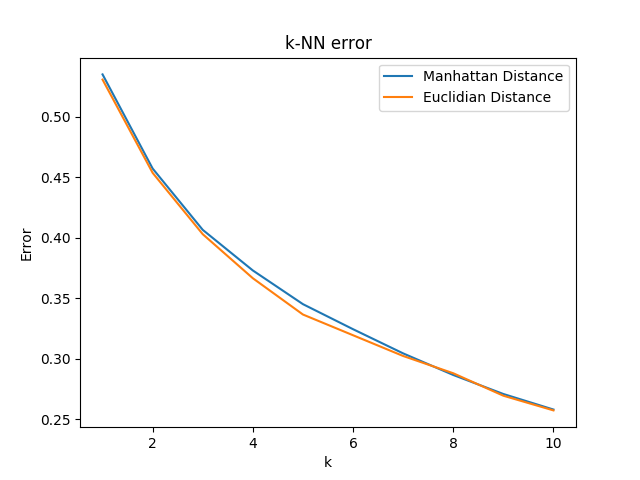
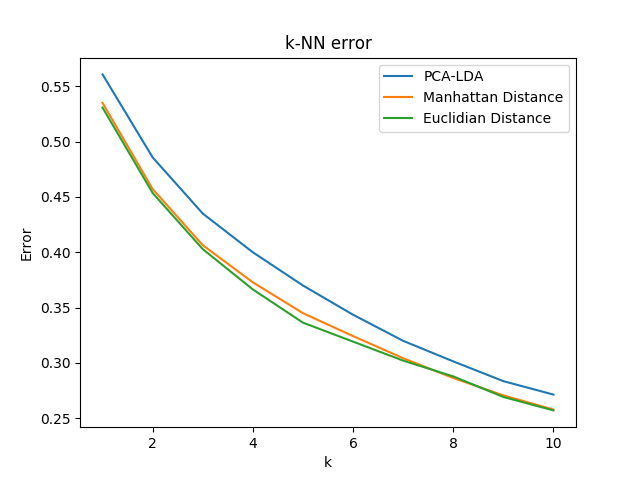
[CW2] Added PCA-LDA with cosine, weighted distance

diff --git a/Coursework 2/lda.py b/Coursework 2/lda.py
@@ -1,0 +1,226 @@
+import numpy as np
+import matplotlib.pyplot as plt
+from tqdm import tqdm
+from numpy.linalg import matrix_power
+import copy
+import os
+
+def sort_eigenvalues_eigenvectors(eigenvalues, eigenvectors):
+    p = np.argsort(np.abs(eigenvalues))[::-1]
+    eigenvalues_ = copy.deepcopy(eigenvalues[p])
+    eigenvectors_ = copy.deepcopy(np.real(eigenvectors[:,p]))
+    return eigenvalues_, eigenvectors_
+
+class LDA:
+    def __init__(self):
+
+        # Dataset
+        # - Stores the raw dataset
+        # - note, don't remove mean or anything from this data
+        self.dataset = {
+            'train_x': [],
+            'train_y': []
+        }
+
+        # Training Data class seperation
+        # { 'class 1' : [ images of class 1 ], etc ... }
+        self.train_class_data = {}
+        # Stores mean of each class
+        # { 'class 1' : class 1 mean, 'class 2': class 2 mean, etc ... }
+        self.train_class_mean = {}
+
+        # Total mean
+        # - mean of training set
+        self.total_mean = []
+
+        # Projection Matrices
+        self.w_pca = [] # pca vector
+        self.w_lda = [] # lda vector
+        self.w_opt = [] # optimal vector which combines both
+
+        # Model HyperParameters
+        # NOTE: M_lda < M_pca and M_pca < N
+        self.M_pca = 0
+        self.M_lda = 0
+
+
+    # splits dataset between classes and gets mean
+    def run_setup(self):
+        self.split_classes()
+        self.get_mean()
+
+    # gets both class mean and total mean
+    def get_mean(self):
+        # get Total Mean
+        self.total_mean = copy.deepcopy(self.dataset['train_x']).mean(axis=1).reshape(-1,1)
+
+        # get within-class mean
+        for label in self.train_class_data:
+            self.train_class_mean[label] = copy.deepcopy(self.train_class_data[label]).mean(axis=1).reshape(-1,1)
+
+    # seperates classes
+    def split_classes(self):
+        # Get all class labels
+        labels = np.unique(self.dataset['train_y'])
+
+        # Seperate Classes
+        for label in labels:
+            # Get indices for those labels
+            indices = []
+            for i in range(self.dataset['train_y'].shape[0]):
+                indices.append(i) if (self.dataset['train_y'][i] == label) else 0
+
+            # Select class from those indices
+            #print(indices)
+            self.train_class_data[label] = copy.deepcopy(self.dataset['train_x'][:,indices])
+
+    # simple function to get size of each class in training set
+    def get_class_sizes(self):
+        class_sizes = {}
+
+        for label in self.train_class_data:
+            class_sizes[label] = self.train_class_data[label].shape[1]
+
+        return class_sizes
+
+    # helper function to compute efficient co-varaince eigenvalue decomposition
+    def compute_covariance_decomposition(self, matrix):
+        A = copy.deepcopy(matrix)
+        cov = (1/matrix.shape[0]) * np.dot(A.T, A)
+        #print('Before PCA projection ... \n')
+        #print('class covariance rank = ',np.linalg.matrix_rank(cov))
+        # Compute Eigenvalues and Eigenvectors
+        eigenvalues, eigenvectors = np.linalg.eig(cov)
+        # Transform Eigenvectors to the Face plane
+        eigenvectors = copy.deepcopy(np.dot(A,eigenvectors))
+        # Normalise Eigenvectors
+        eigenvectors = eigenvectors / np.linalg.norm(eigenvectors,axis=0)
+        # return eigenvectors and eigenvalues
+        return sort_eigenvalues_eigenvectors( eigenvalues, eigenvectors )
+
+    # helper function to get eigenvalue decomposition of matrix
+    def eigenvalue_decomposition(self, matrix):
+        A = copy.deepcopy(matrix)
+        # Compute Eigenvalues and Eigenvectors
+        eigenvalues, eigenvectors = np.linalg.eig(A)
+        # return eigenvectors and eigenvalues
+        return sort_eigenvalues_eigenvectors( eigenvalues, eigenvectors )
+
+    # helper function to compute co-variance
+    def compute_covariance(self,matrix):
+        A = copy.deepcopy(matrix)
+        return np.dot(A,A.T)
+
+
+    def project_matrix(self,matrix,vec):
+        return np.dot(
+            copy.deepcopy(vec).T,
+            np.dot(
+                copy.deepcopy(matrix),
+                copy.deepcopy(vec)))
+
+    # IMPORTANT : function to do PCA-LDA transformation
+    def transform(self,X):
+        return copy.deepcopy(np.matmul(
+                copy.deepcopy(X.T),
+                copy.deepcopy(self.w_opt)
+            ))
+
+    # IMPORTANT : Equivalent of 'fit' function
+    def run_pca_lda(self,m_pca_type=0,m_lda_type=0): # 0 - single value, 1 - list
+        if os.path.exists(os.path.join("w.npy")):
+            self.w_opt = np.load("w.npy")
+            return
+
+        N = self.dataset['train_x'].shape[1]
+        self.M_pca = int(0.5*N)
+        self.M_lda = int(0.25*N)
+
+        if m_pca_type == 0:
+            assert(self.M_pca < self.dataset['train_x'].shape[1]), 'M PCA must be less than N'
+        if m_lda_type == 0:
+            assert(self.M_lda <= self.M_pca), ' M LDA can\'t be greater than M PCA'
+
+        # PCA
+        # get eigenvalue decomposition of total covariance matrix (X - Xbar)
+        print("Computing PCA eigenvectors...")
+
+        _, pca_eigenvectors = self.compute_covariance_decomposition(copy.deepcopy(self.dataset['train_x']) - self.total_mean)
+
+        # set M eigenvectors to be w_pca
+        if m_pca_type == 0:
+            self.w_pca = copy.deepcopy(pca_eigenvectors[:,:min(self.M_pca,pca_eigenvectors.shape[1])])
+        if m_pca_type == 1:
+            self.w_pca = copy.deepcopy(pca_eigenvectors[:,self.M_pca])
+
+        # Calculate covariance matrices
+        class_covariance = []
+        class_mean_covariance = []
+
+        print("Computing LDA SW...")
+
+        # Within Class variance
+        for key in tqdm(self.train_class_data):
+            class_covariance.append( self.compute_covariance( copy.deepcopy(self.train_class_data[key]) - self.train_class_mean[key]) )
+        class_covariance = np.array(sum(class_covariance))
+        class_covariance = 0.5*(class_covariance + class_covariance.T)
+        print(np.linalg.det(class_covariance))
+        print("calculating det...")
+
+        # Between class seperation
+        print("Computing LDA SB...")
+
+        for key in tqdm(self.train_class_mean):
+            class_mean_covariance.append(self.compute_covariance(copy.deepcopy(self.total_mean).reshape(-1,1) - self.train_class_mean[key].reshape(-1,1)) * self.train_class_data[key].shape[1] )
+        class_mean_covariance = np.array(sum(class_mean_covariance))
+        class_mean_covariance = 0.5*(class_mean_covariance + class_mean_covariance.T)
+        print(np.linalg.det(class_mean_covariance))
+        # Project covariance matrices to PCA space
+        class_covariance        = self.project_matrix(class_covariance, self.w_pca)
+        class_mean_covariance   = self.project_matrix(class_mean_covariance, self.w_pca)
+
+        print("Computing LDA eigenvectors...")
+        # Calculate optimal projection
+        lda_projection = np.dot(np.linalg.pinv(class_covariance),class_mean_covariance)
+
+        # Save LDA projection
+        _, lda_eigenvectors = self.eigenvalue_decomposition(lda_projection)
+
+        if m_lda_type == 0:
+            self.w_lda = copy.deepcopy(lda_eigenvectors[:,:min(self.M_lda,lda_eigenvectors.shape[1])])
+        if m_lda_type == 1:
+            self.w_lda = copy.deepcopy(lda_eigenvectors[:,self.M_lda])
+
+        self.w_opt = np.dot(
+            copy.deepcopy(self.w_lda.T),
+            copy.deepcopy(self.w_pca.T))
+
+        self.w_opt = self.w_opt.T
+        np.save("w.npy",self.w_opt)
+
+    def project(self,img,vec):
+        return copy.deepcopy(np.dot(copy.deepcopy(img.T), copy.deepcopy(vec)))
+
+if __name__ == '__main__':
+
+    # EXAMPLE SCRIPT
+
+    # load your dataset
+    dataset = load_data() # contains train_x, train_y, test_x, test_y
+
+    lda = LDA() # initialise lda class
+    lda.dataset['train_x'] = dataset['train_x']
+    lda.dataset['train_y'] = dataset['train_y']
+
+    # setup the class seperation and class means
+    lda.run_setup()
+
+    # Select number of vectors for PCA and LDA
+    lda.M_pca = 150 # TODO: change for dataset
+    lda.M_lda = 40  # TODO: change for datset
+
+    # fit the subspace
+    lda.run_pca_lda()
+
+    # get the transformed data
+    test_x_transform = lda.transform(dataset['test_x'])

diff --git a/Coursework 2/post_process.py b/Coursework 2/post_process.py
@@ -49,76 +49,3 @@ def calculate_scores(y_test, y_pred, file_path):
         f1 =  f1_score(y_test, y_pred, average=None)
         text_file.write("Labels:\n{}\n".format(classes))
         text_file.write("F1 scores:\n{}".format(f1))
-
-# This function calculates the confusion matrix and visualizes it
-def plot_confusion_matrix(y_test, y_pred, file_path,
-                          normalize=False,
-                          title='Confusion matrix',
-                          cmap=plt.cm.Blues):
-    """
-    Calculates and plots a confusion matrix from
-    the given labels
-
-    Parameters
-    ----------
-    y_test: list
-        Already given labels
-    y_pred:
-        Predictions made by the model
-    file_path: str
-        Name of the of the file where the results should be stored,
-        together with a path
-    nomralize: bool
-        Whether the confusion matrix should ne bormalized
-    title: str
-        Whether the plot should have any special title
-    cmap: plt.cm.*
-        What cholor scheme should be used for plotting
-
-    Returns
-    -------
-    An image of confusion matrix
-    """
-    # Compute confusion matrix
-    cm = confusion_matrix(y_test, y_pred)
-    np.set_printoptions(precision=2)
-
-    classes_pred = [str(i) for i in np.unique(y_pred)]
-    classes_test = [str(i) for i in np.unique(y_test)]
-
-    classes = None
-    if len(classes_pred)>len(classes_test):
-        classes = classes_pred
-    else:
-        classes = classes_test
-
-    # In case the confusion matrix should be normalized
-    if normalize:
-        t = cm.sum(axis=1)[:, np.newaxis]
-        for i in t:
-            if i[0] == 0:
-                i[0] = 1
-        cm = cm.astype('float') / t
-
-    plt.figure()
-    plt.imshow(cm, interpolation='nearest', cmap=cmap)
-    plt.title(title)
-    plt.colorbar()
-    tick_marks = np.arange(len(classes))
-    plt.xticks(tick_marks, classes, rotation=45)
-    plt.yticks(tick_marks, classes)
-
-
-    thresh = cm.max() / 2.0
-    for i, j in itertools.product(range(cm.shape[0]), range(cm.shape[1])):
-        plt.text(j, i, np.around(cm[i, j],2),
-                 horizontalalignment="center",
-                 color="white" if cm[i, j] > thresh else "black")
-
-    plt.tight_layout()
-    plt.ylabel('True label')
-    plt.xlabel('Predicted label')
-
-    plt.savefig("{}.png".format(file_path))
-
-    plt.close()

diff --git a/Coursework 2/kNN.py b/Coursework 2/kNN.py
@@ -8,6 +8,9 @@ from sklearn import neighbors
 import matplotlib.pyplot as plt
 # Import post process analysing methods
 from sklearn.metrics import precision_score
+from sklearn.neighbors import DistanceMetric
+
+from lda import LDA
 
 from tqdm import tqdm
 
@@ -22,7 +25,7 @@ def analyse_KNN(k=10):
     """
 
     # Define all the different methods that we are going to try
-    methods = ["Manhattan Distance", "Euclidian Distance", "PCA-LDA"]
+    methods = ["PCA-LDA","Manhattan Distance", "Euclidian Distance"]
     results = {}
 
     all_data = load_data()
@@ -32,8 +35,16 @@ def analyse_KNN(k=10):
     training_features = training_data[0]
     training_camIds = training_data[2]
 
-    FCD = None
+    lda = LDA() # initialise lda class
+    lda.dataset['train_x'] = training_features.T
+    lda.dataset['train_y'] = training_labels
 
+    # setup the class seperation and class means
+    lda.run_setup()
+
+    # fit the subspace
+    print("Finding W for PCA-LDA transform...")
+    lda.run_pca_lda()
 
     for method in methods:
         query_data = all_data[1]
@@ -44,7 +55,11 @@ def analyse_KNN(k=10):
 
         query_features = query_data[0]
         gallery_features = gallery_data[0]
-#
+
+        if method == "PCA-LDA":
+            gallery_features = lda.transform(gallery_features.T)
+            query_features = lda.transform(query_features.T)
+
         query_camIds = query_data[2]
         gallery_camIds = gallery_data[2]
 
@@ -74,9 +89,7 @@ def analyse_KNN(k=10):
                 clf = neighbors.KNeighborsClassifier(k,p=2, weights="uniform",n_jobs=4)
 
             elif method== "PCA-LDA":
-                clf = neighbors.KNeighborsClassifier(k, metric="mahalanobis",weights="distance",n_jobs=4)
-                selected_gallery_features = FCD.transform(selected_gallery_features)
-                query = FCD.transform(query)
+                clf = neighbors.KNeighborsClassifier(k, algorithm="auto", metric="cosine",weights="distance",n_jobs=4)
 
             clf.fit(selected_gallery_features, selected_gallery_labels)
             predicted_neighbors = clf.kneighbors(query.reshape(1, -1), return_distance=False)
